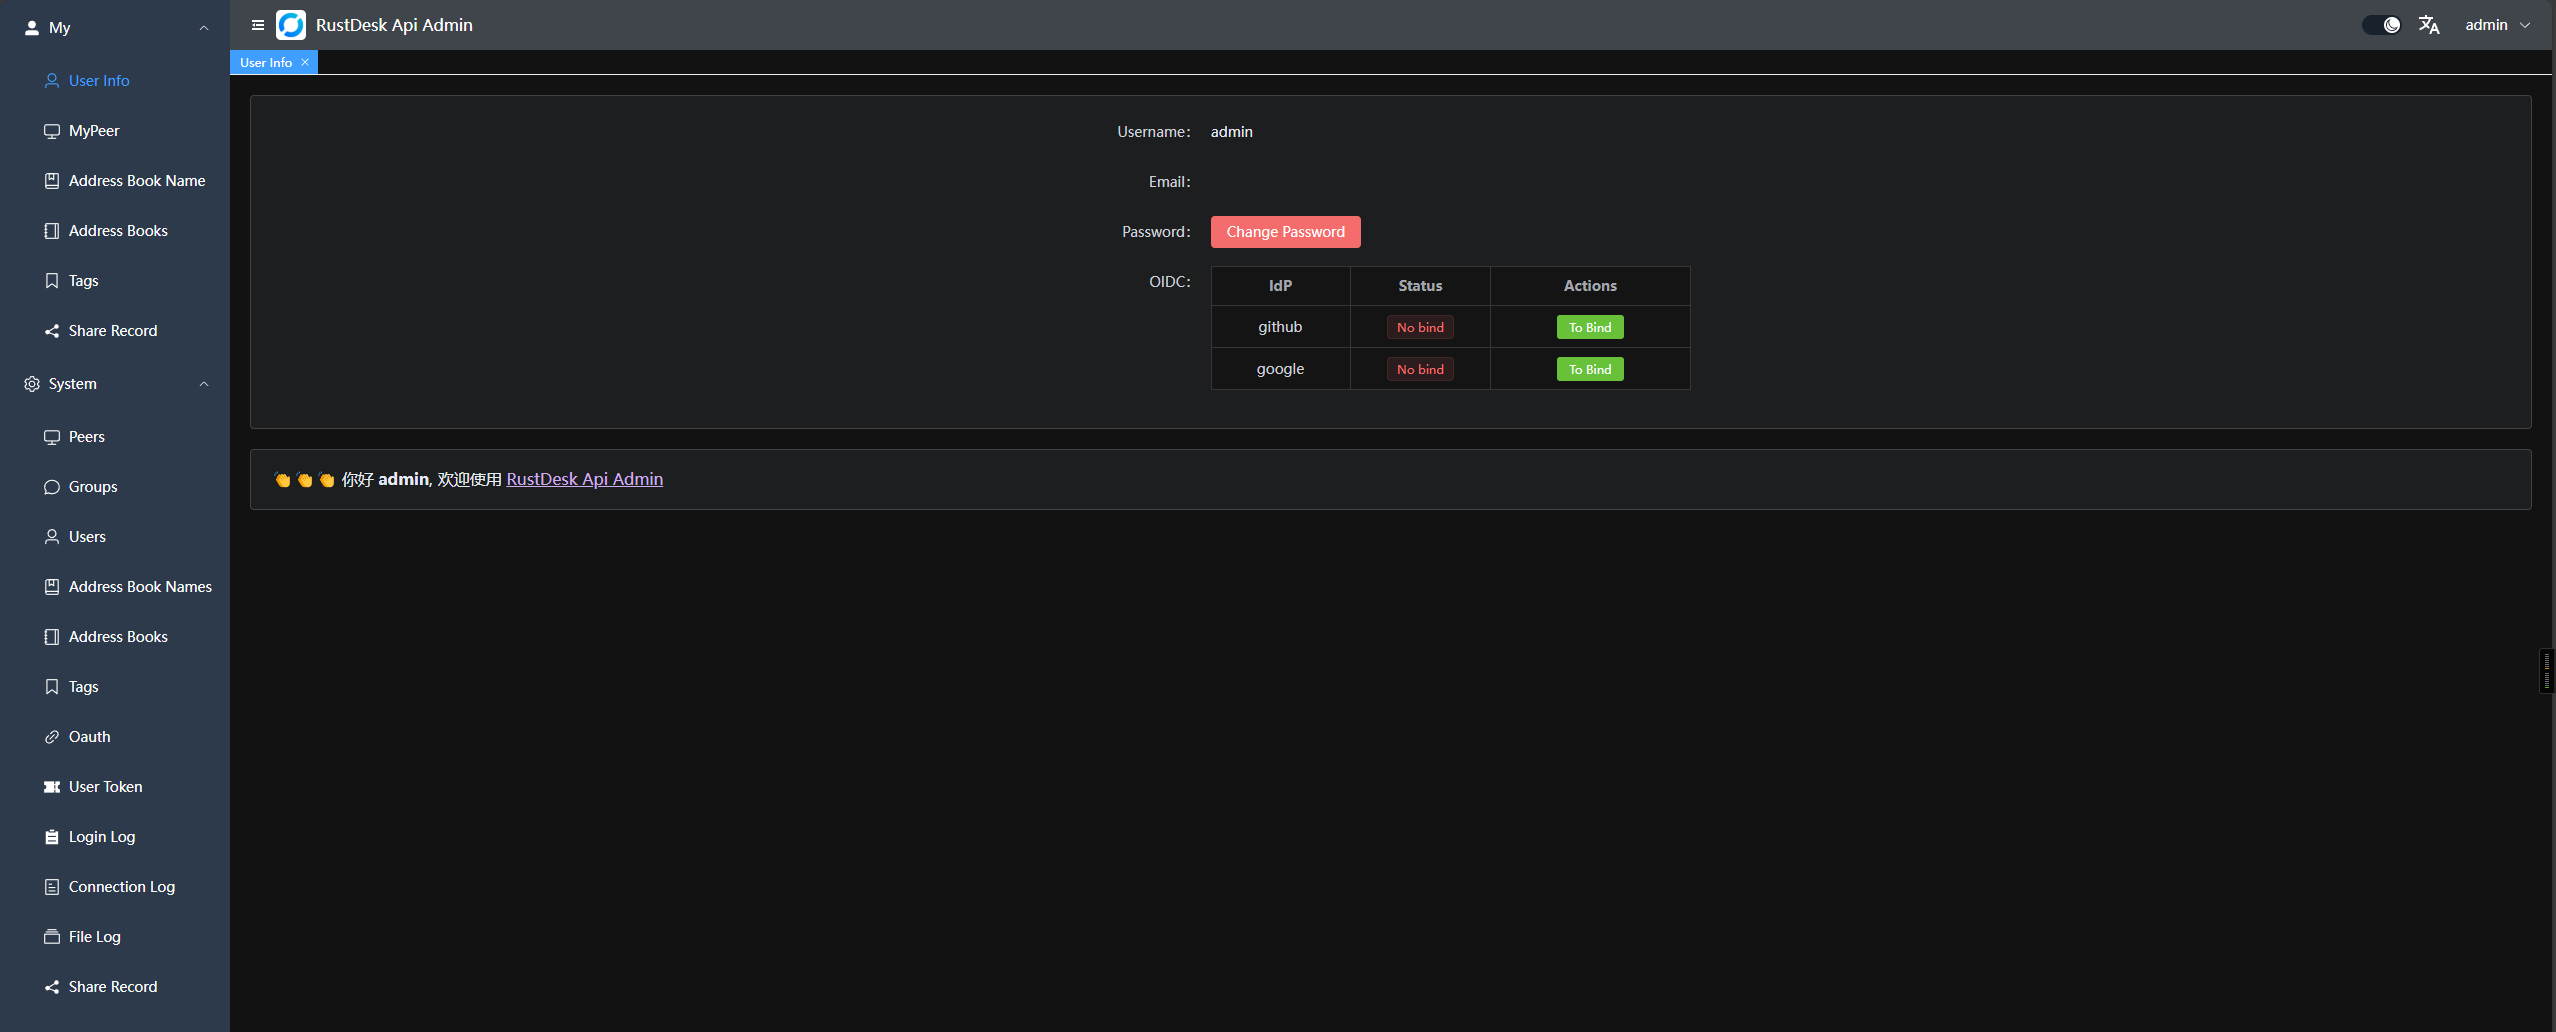
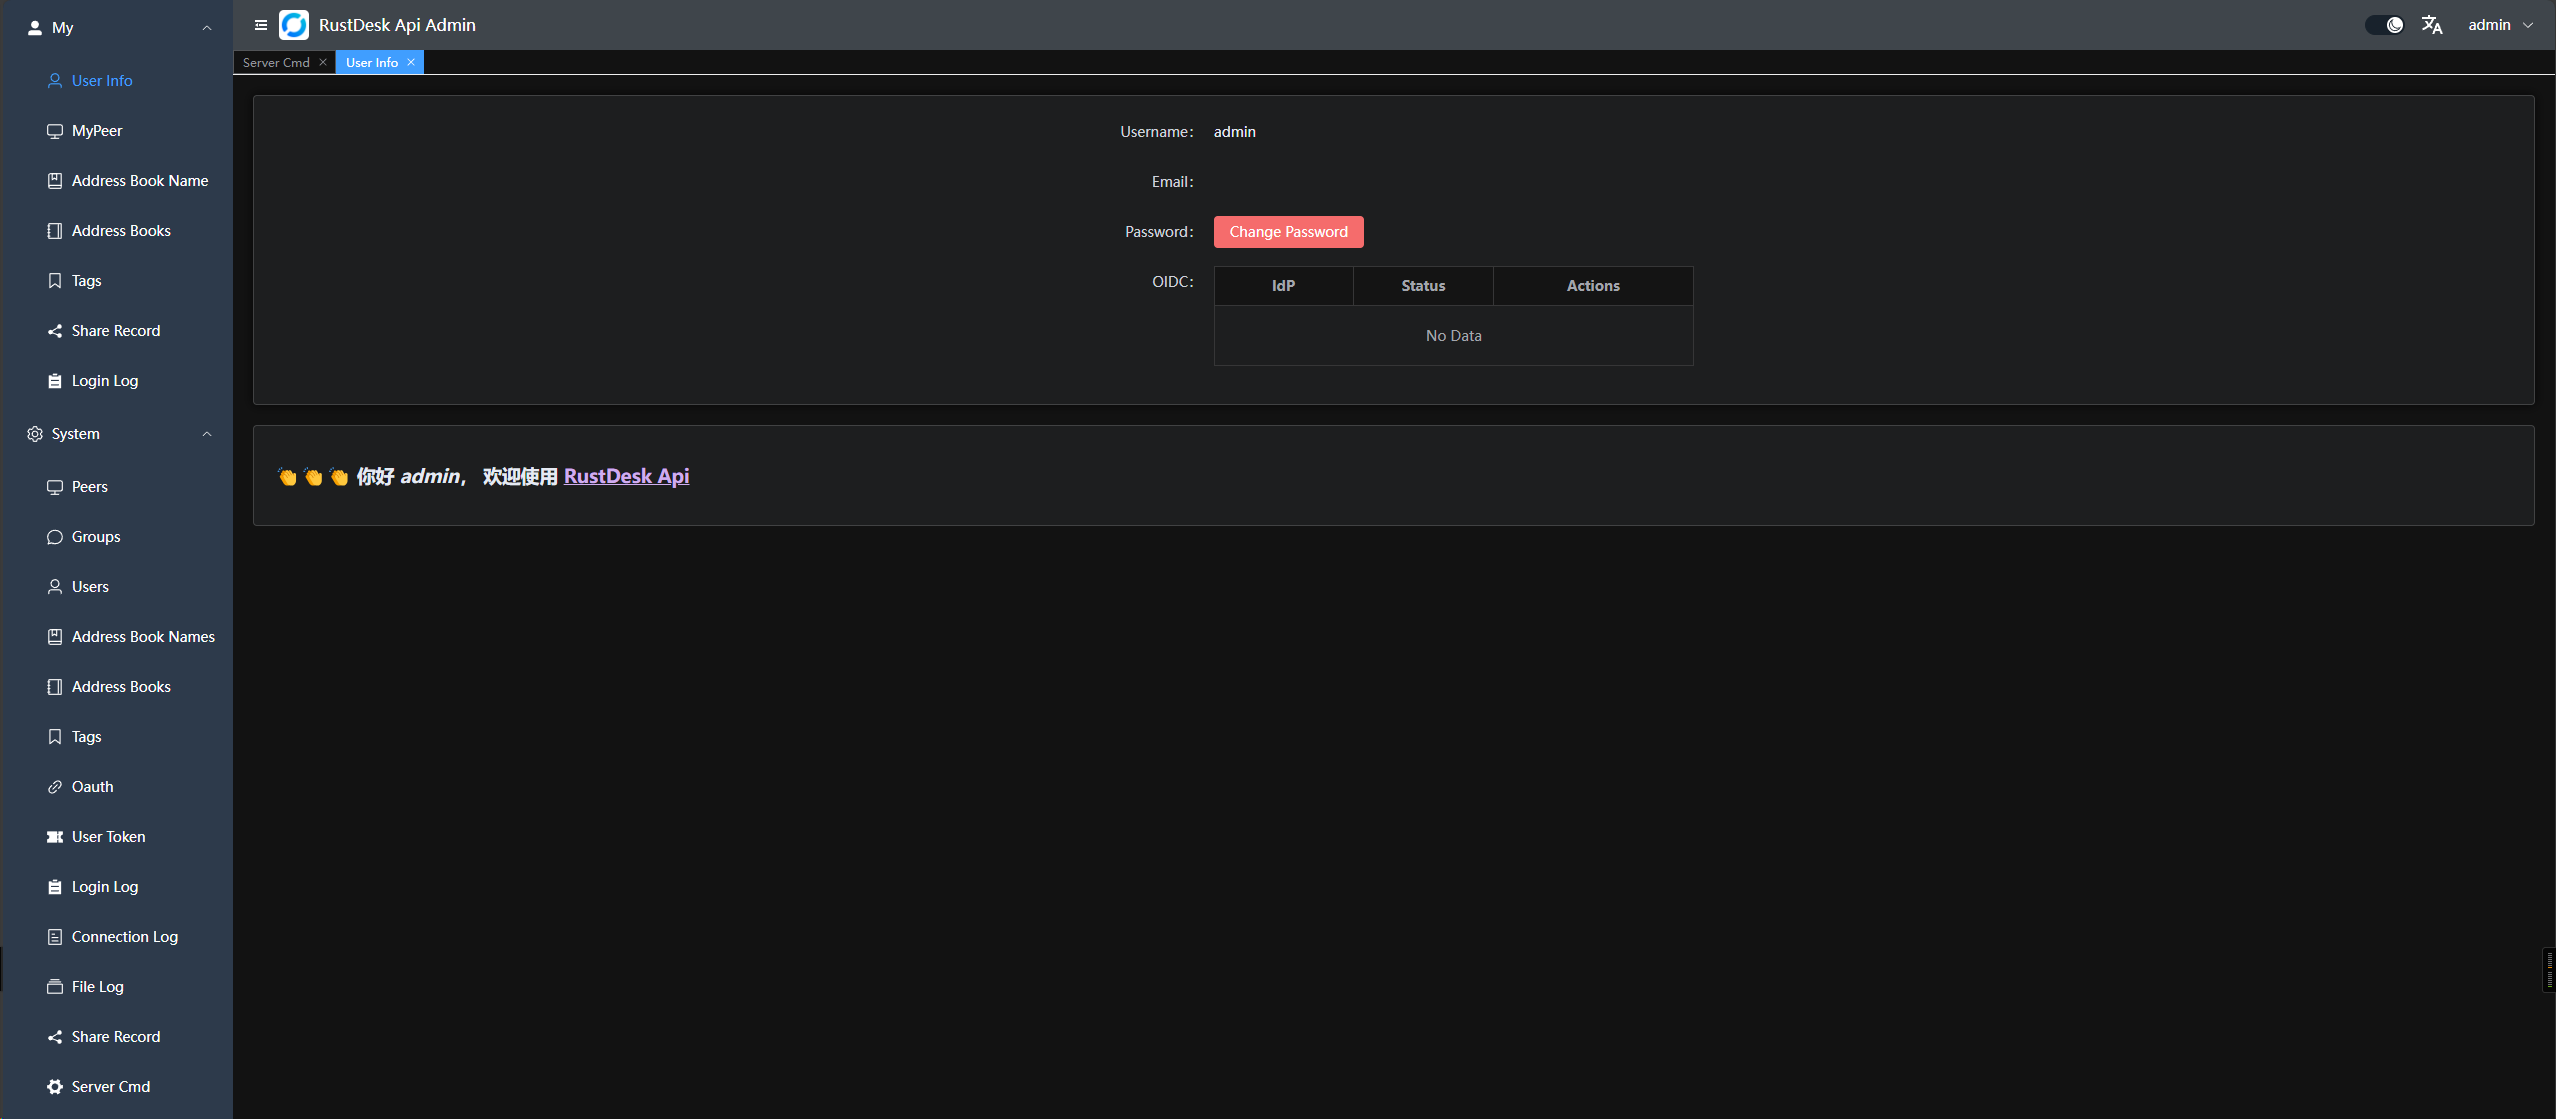
docs: Up readme

diff --git a/README_EN.md b/README_EN.md
@@ -79,12 +79,11 @@ installation are `admin` `admin`, please change the password immediately.
    In the top right corner, you can change the password, switch languages, and toggle between `day/night` mode.
 
    ![web_resetpwd](docs/en_img/web_resetpwd.png)
-3. Groups can be customized for easy management. Currently, two types are supported: `shared group` and `regular group`.
-   ![web_admin_gr](docs/en_img/web_admin_gr.png)
-4. You can directly launch the client or open the web client for convenience; you can also share it with guests, who can remotely access the device via the web client.
-
+3. Each user can have multiple address books, which can also be shared with other users.
+4. Groups can be customized for easy management. Currently, two types are supported: `shared group` and `regular group`.
+5. You can directly launch the client or open the web client for convenience; you can also share it with guests, who can remotely access the device via the web client.
    ![web_webclient](docs/en_img/admin_webclient.png)
-5. OAuth support: Currently, `GitHub`, `Google` and `OIDC`  are supported. You need to create an `OAuth App` and configure it in
+6. OAuth support: Currently, `GitHub`, `Google` and `OIDC`  are supported. You need to create an `OAuth App` and configure it in
    the admin panel.
    ![web_admin_oauth](docs/en_img/web_admin_oauth.png)
     - For `Google` and `Github`, you don't need to fill the `Issuer` and `Scpoes`
@@ -93,6 +92,23 @@ installation are `admin` `admin`, please change the password immediately.
       at `Settings` -> `Developer settings` -> `OAuth Apps` -> `New OAuth App` [here](https://github.com/settings/developers).
     - Set the `Authorization callback URL` to `http://<your server[:port]>/api/oauth/callback`,
       e.g., `http://127.0.0.1:21114/api/oauth/callback`.
+   
+7. Login logs
+8. Connection logs
+9. File transfer logs
+10. Server control
+
+- `Simple mode`, some simple commands have been GUI-ized and can be executed directly in the backend
+  ![rustdesk_command_simple](./docs/en_img/rustdesk_command_simple.png)
+
+- `Advanced mode`, commands can be executed directly in the backend
+    * Official commands can be used
+    * Custom commands can be added
+    * Custom commands can be executed
+
+  ![rustdesk_command_advance](./docs/en_img/rustdesk_command_advance.png)
+
+
 
 ### Web Client:
 

diff --git a/README.md b/README.md
@@ -76,14 +76,14 @@
 2. 普通用户界面
    ![web_user](docs/web_admin_user.png)
    右上角可以更改密码,可以切换语言，可以切换`白天/黑夜`模式
+
    ![web_resetpwd](docs/web_resetpwd.png)
 
-3. 分组可以自定义，方便管理，暂时支持两种类型: `共享组` 和 `普通组`
-   ![web_admin_gr](docs/web_admin_gr.png)
-4. 可以直接打开webclient，方便使用；也可以分享给游客，游客可以直接通过webclient远程到设备
-
+3. 每个用户可以多个地址簿，也可以将地址簿共享给其他用户
+4. 分组可以自定义，方便管理，暂时支持两种类型: `共享组` 和 `普通组`
+5. 可以直接打开webclient，方便使用；也可以分享给游客，游客可以直接通过webclient远程到设备
    ![web_webclient](docs/admin_webclient.png)
-5. Oauth,支持了`Github`, `Google` 以及 `OIDC`, 需要创建一个`OAuth App`，然后配置到后台
+6. Oauth,支持了`Github`, `Google` 以及 `OIDC`, 需要创建一个`OAuth App`，然后配置到后台
    ![web_admin_oauth](docs/web_admin_oauth.png)
     - 对于`Google` 和 `Github`, `Issuer` 和 `Scopes`不需要填写.
     - 对于`OIDC`, `Issuer`是必须的。`Scopes`是可选的，默认为 `openid,profile,email`. 确保可以获取 `sub`,`email` 和`preferred_username`
@@ -91,6 +91,21 @@
       中创建,地址 [https://github.com/settings/developers](https://github.com/settings/developers)
     - `Authorization callback URL`填写`http://<your server[:port]>/api/oauth/callback`
       ，比如`http://127.0.0.1:21114/api/oauth/callback`
+7. 登录日志
+8. 链接日志
+9. 文件传输日志
+10. server控制
+
+  - `简易模式`,已经界面化了一些简单的指令，可以直接在后台执行
+    ![rustdesk_command_simple](./docs/rustdesk_command_simple.png)
+
+  - `高级模式`,直接在后台执行指令
+      * 可以官方指令
+      * 可以添加自定义指令
+      * 可以执行自定义指令
+    
+    ![rustdesk_command_advance](./docs/rustdesk_command_advance.png)
+ 
 
 ### Web Client:
 
